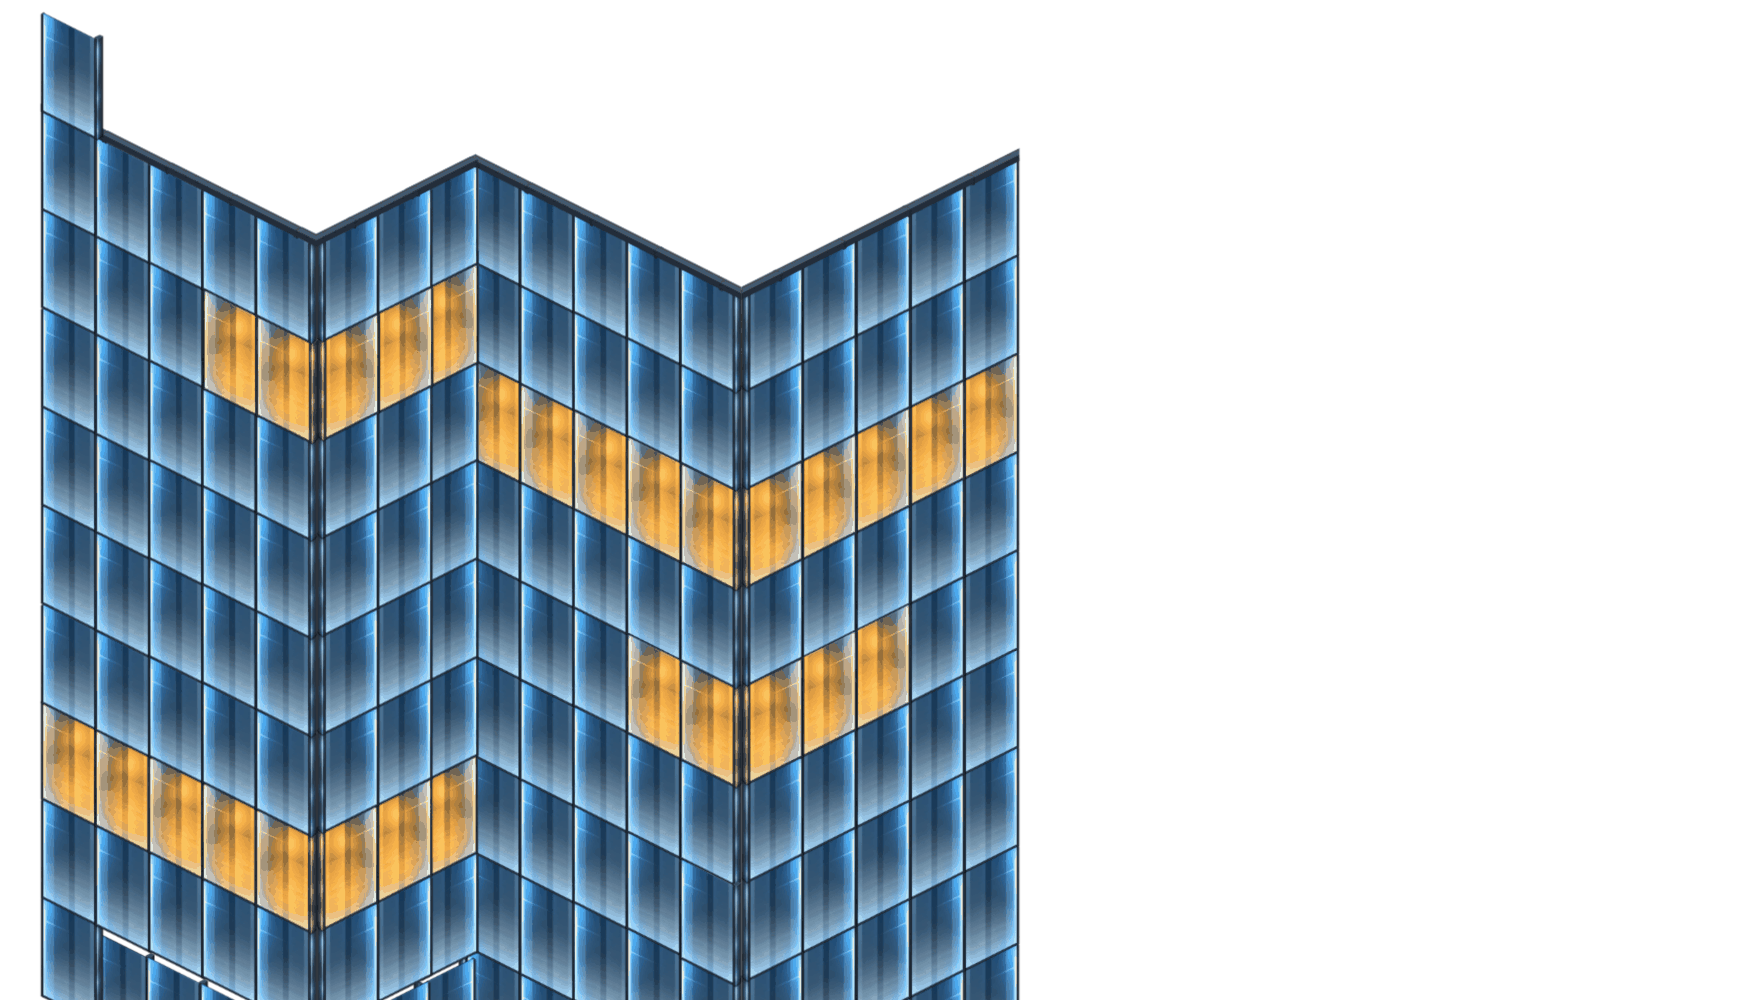
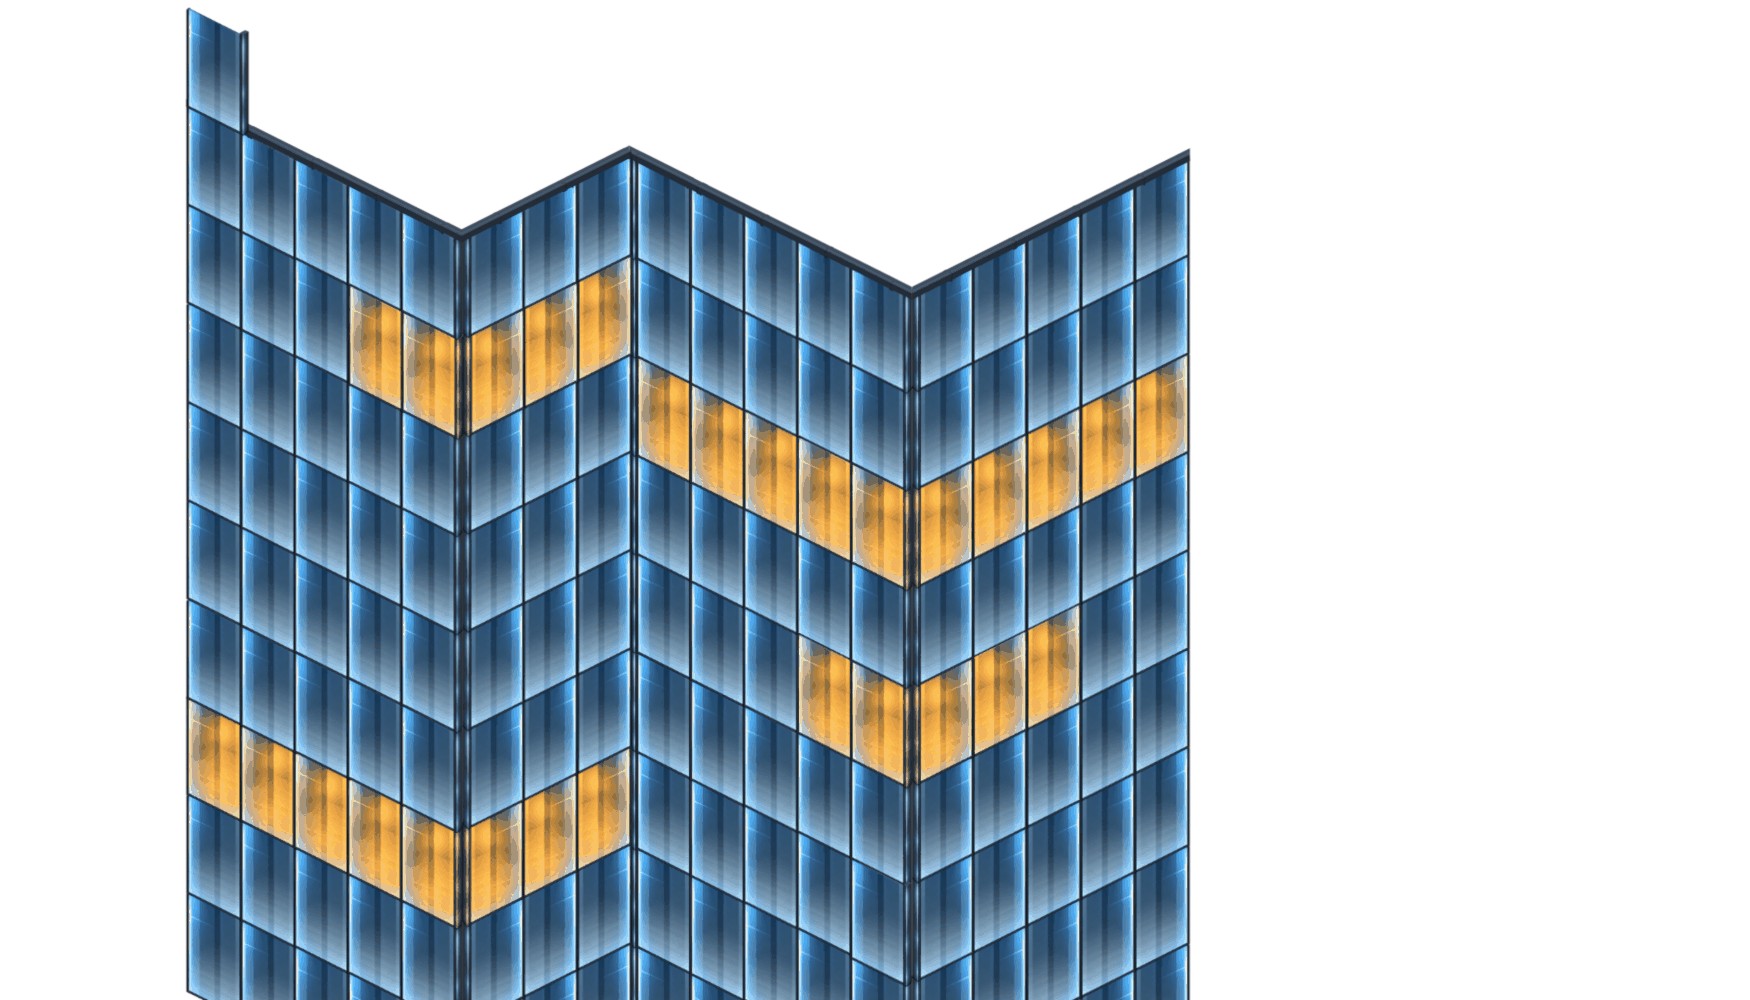
Troca vidraça 2 de novo e recalibra ápice + comprime (~679KB)
Imagem nova enviada ("de novo") tem a geometria da V1 original (ápice
de volta em x≈910, não mais x≈740 da versão reposicionada anterior) --
medido coluna a coluna no PNG recebido, não assumido. Vão entre
janelas continua ~53px, escala não muda. Comprimida com a mesma
técnica da vez passada (quantização de cor só no RGB, alpha original
preservado) pra ficar dentro de 700KB.

Claude-Session: https://claude.ai/code/session_018xm3GX2bQC8Nuwuw2rsoPK

diff --git a/game/MainScene.ts b/game/MainScene.ts
@@ -492,23 +492,24 @@ const FACADE_SCALE = 128 / 53.6;
 // (ver roomFrontCorners/positionFacade).
 //
 // ARTE TROCADA (pedido do Douglas: "vamos precisar mudar a vidraca 2 de
-// lugar, e trocar a imagem tambem") -- PNG novo (1750x1000, zigue-zague
-// com 2 "V"s + faixa diagonal dourada). Douglas reportou ("lado
-// direito nao encaixou") e reposicionou o desenho DENTRO do PNG (2ª
-// versão da arte, mesmo arquivo substituído de novo) -- o conteúdo
-// opaco agora só vai até x≈1020 (antes ia além de x≈1190), ou seja
-// todo o zigue-zague foi deslocado pra esquerda dentro do canvas. O
-// vão entre janelas continua o mesmo (54px, conferido de novo em 5
-// faixas horizontais diferentes -- mesma arte, só reposicionada), mas
-// o ápice (V mais FUNDO dos dois) mudou de lugar dentro do arquivo:
-// agora x≈740 -> y≈285 (era x≈911 -> y≈286 na versão anterior do PNG).
-// Raso continua relativo logo depois (não remedido, só desloca junto).
-// Ainda NÃO testado ao vivo -- ápice é só a medição bruta do PNG novo,
-// sem ajuste fino por cima (ver FACADE_CORNER2_OFFSET_X_PX/Y_PX
-// abaixo, mantidos zerados: Douglas disse que já reposicionou pelo
-// lado da arte, offset de tile fica por conta do próximo print).
+// lugar, e trocar a imagem tambem") -- PNG 1750x1000, zigue-zague com
+// 2 "V"s + faixa diagonal dourada. Teve 3 versões do arquivo até
+// agora: (1) original, conteúdo opaco até x≈1190, ápice (V mais
+// FUNDO) em x≈911->y≈286; (2) Douglas reportou "lado direito nao
+// encaixou" e reposicionou o desenho dentro do canvas (conteúdo só
+// até x≈1020), ápice foi pra x≈740->y≈285; (3) a versão ATUAL (depois
+// de "de novo" + nova imagem) voltou a bater com a geometria da
+// versão (1) -- conteúdo de novo até x≈1190, ápice medido de novo em
+// x≈910->y≈285 (conferido coluna a coluna no PNG recebido, não assumido
+// -- bate com a v1 dentro de 1px). Se um dia "não encaixar" de novo
+// depois de reabrir esse arquivo, é sinal de que ele trocou de versão
+// outra vez -- remedir o ápice (perfil de alpha coluna a coluna, pico
+// mais fundo dos dois "V"s) antes de mexer em qualquer outra coisa.
+// Vão entre janelas sempre ~53-54px nas 3 versões (mesma arte-base,
+// só a posição dentro do canvas muda), por isso FACADE_CORNER2_SCALE
+// abaixo não mudou entre as versões.
 const FACADE_CORNER2_TEXTURE_KEY = "fachada-predio-quina-2";
-const FACADE_CORNER2_APEX_X_PX = 740;
+const FACADE_CORNER2_APEX_X_PX = 910;
 const FACADE_CORNER2_APEX_Y_PX = 285;
 /** Escala PRÓPRIA dessa peça -- Douglas confirmou a regra depois de ver
  * o primeiro resultado ("ta do mesmo tamanho que a fachada 01" / "a
